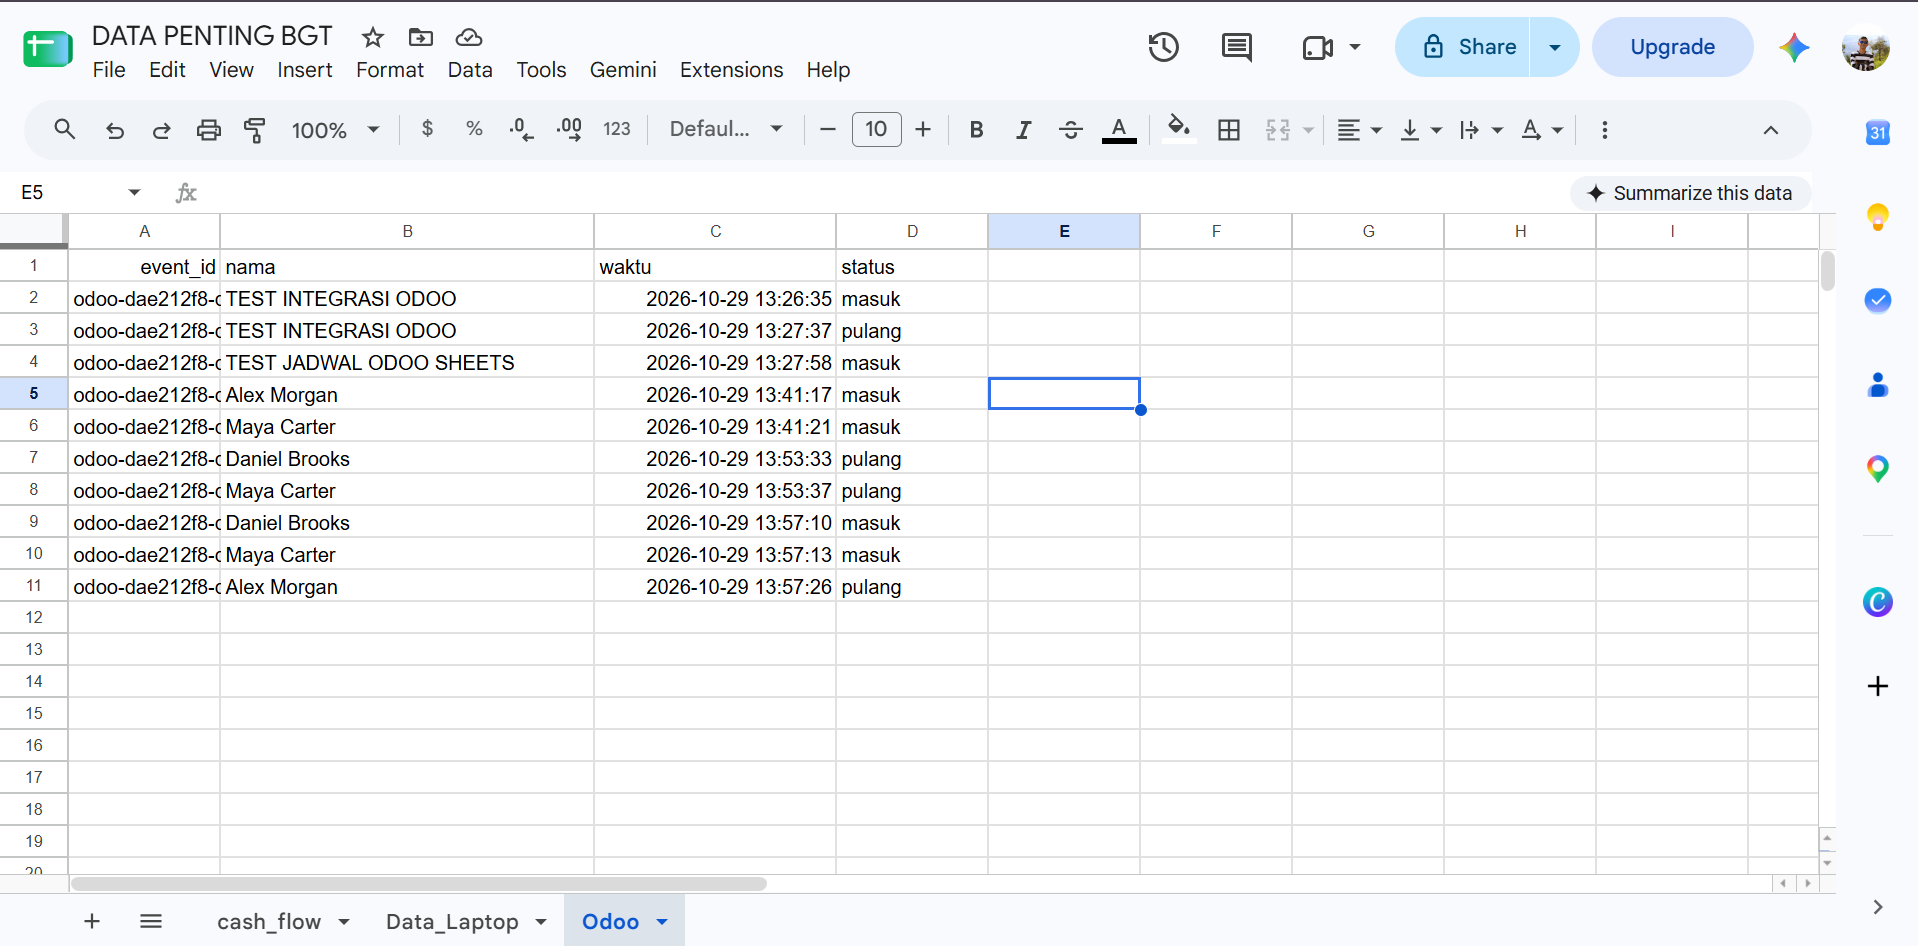
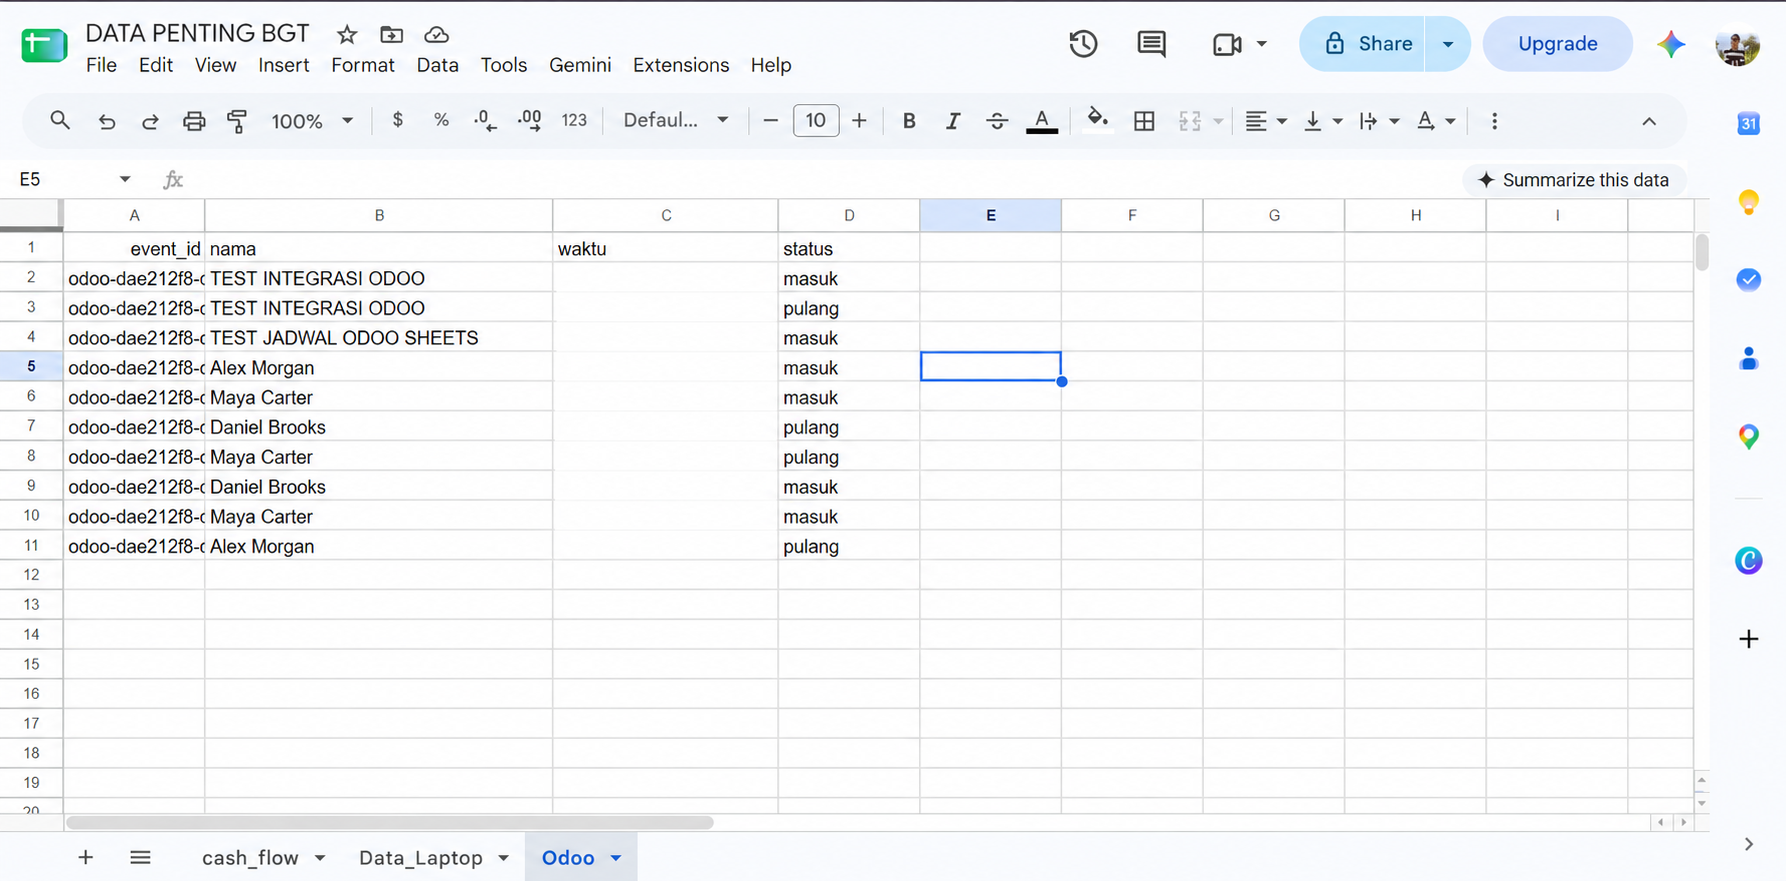
changed Readme

diff --git a/README.md b/README.md
@@ -30,7 +30,7 @@ Odoo 20 with `hr_attendance`, PostgreSQL with pgvector, the dependencies in `req
 
 ## Performance and costs
 
-On an Intel Core i5-1335U with 15.7 GiB RAM, a local test of one 250 × 295 image measured **11.4 ms median** for detection and embedding across 11 warm runs; model loading took 196.6 ms. This excludes browser rendering, database matching, attendance and Sheets sync. FPS, CPU usage during scanning, end-to-end latency and concurrent capacity have not been measured.
+On an Intel Core Gen 13 with 15.7 GiB RAM, a local test of one 250 × 295 image measured **11.4 ms median** for detection and embedding across 11 warm runs; model loading took 196.6 ms. This excludes browser rendering, database matching, attendance and Sheets sync. FPS, CPU usage during scanning, end-to-end latency and concurrent capacity have not been measured.
 
 Detection runs locally without a paid AI API per scan. Hardware, electricity, maintenance, hosting and any applicable [Odoo license](https://www.odoo.com/pricing) remain potential costs. Google services have [usage quotas](https://developers.google.com/apps-script/guides/services/quotas); monthly costs depend on the deployment and usage.
 
